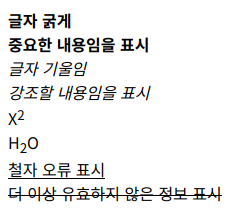
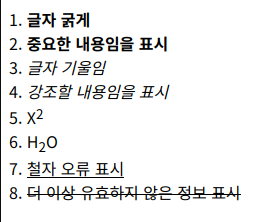
2024-07-27 HTML

Changed region(s): [[0.0, 0.0, 0.8924, 1.0]]

diff --git a/_posts/HTMLnCSS/HtmlTraining/HTMLnCSS_HTML02.HTML b/_posts/HTMLnCSS/HtmlTraining/HTMLnCSS_HTML02.HTML
@@ -7,21 +7,21 @@
 </head>
 <body>
 
-    <b>글자 굵게</b>   <br>
+    1. <b>글자 굵게</b>   <br>
 
-    <strong>중요한 내용임을 표시</strong>   <br> 
+    2. <strong>중요한 내용임을 표시</strong>   <br> 
 
-    <i>글자 기울임</i>   <br>
+    3. <i>글자 기울임</i>   <br>
 
-    <em>강조할 내용임을 표시</em>   <br>
+    4. <em>강조할 내용임을 표시</em>   <br>
 
-    X<sup>2</sup>   <br>
+    5. X<sup>2</sup>   <br>
 
-    H<sub>2</sub>O   <br>
+    6. H<sub>2</sub>O   <br>
 
-    <u>철자 오류 표시</u>   <br>
+    7. <u>철자 오류 표시</u>   <br>
 
-    <s>더 이상 유효하지 않은 정보 표시</s>   <br>
+    8. <s>더 이상 유효하지 않은 정보 표시</s>   <br>
     
 </body>
 </html>

diff --git a/_posts/HTMLnCSS/HtmlTraining/HTMLnCSS_HTML03.HTML b/_posts/HTMLnCSS/HtmlTraining/HTMLnCSS_HTML03.HTML
@@ -1,0 +1,37 @@
+<!DOCTYPE html>
+<html lang="ko">
+<head>
+    <meta charset="UTF-8">
+    <meta name="viewport" content="width=device-width, initial-scale=1.0">
+    <title>Document</title>
+</head>
+<body>
+    
+    1.
+    &lt; 꺾쇠 대체텍스트 &gt;  
+
+    <br>2.
+    <blockquote cite="www.naver.com">
+        긴 인용문 작성 시, blockquote 태그를 사용
+    </blockquote>
+
+    <br>3.
+    <cite>
+        출처 : www.naver.com
+    </cite>
+
+    <br>4.
+    <q cite="www.naver.com">
+        짧은 인용문
+    </q>
+
+    <br>5.
+    <mark>하이라이트 표기</mark>
+
+    <br>6.
+    <abbr title="HyperText Markup Language">
+        HTML
+    </abbr>
+
+</body>
+</html>

diff --git a/_posts/HTMLnCSS/2024-05-03-HTMLnCSS_HTML02.md b/_posts/HTMLnCSS/2024-05-03-HTMLnCSS_HTML02.md
@@ -20,8 +20,8 @@ sidebar:
 
 |  태그  |             설명            |       비고       |
 |:------:|:---------------------------:|:----------------:|
-|    b   |  글자를 굵게 (구버전 HTML)  | 👉 [사용 일람 보기](https://developer.mozilla.org/ko/docs/Web/HTML/Element/b#%EC%82%AC%EC%9A%A9_%EC%9D%BC%EB%9E%8C)  |
-| strong |     중요한 내용임을 명시    |                  |
+|    `<b>`   |  글자를 굵게 (구버전 HTML)  | 👉 [사용 일람 보기](https://developer.mozilla.org/ko/docs/Web/HTML/Element/b#%EC%82%AC%EC%9A%A9_%EC%9D%BC%EB%9E%8C)  |
+| `<strong>` |     중요한 내용임을 명시    |                  |
 
 
 ## i 태그와 em 태그
@@ -30,15 +30,15 @@ sidebar:
 
 |  태그  |             설명            |       비고       |
 |:------:|:---------------------------:|:----------------:|
-|    i   | 글자를 기울임 (구버전 HTML) | 👉 [사용 일람 보기](https://developer.mozilla.org/ko/docs/Web/HTML/Element/i#%EC%82%AC%EC%9A%A9_%EC%9D%BC%EB%9E%8C) |
-|   em   |     강조할 내용임을 명시    |                  |
+|    `<i>`   | 글자를 기울임 (구버전 HTML) | 👉 [사용 일람 보기](https://developer.mozilla.org/ko/docs/Web/HTML/Element/i#%EC%82%AC%EC%9A%A9_%EC%9D%BC%EB%9E%8C) |
+|   `<em>`   |     강조할 내용임을 명시    |                  |
 
 ## sup 태그와 sub 태그
 
-|  태그 |    설명   |        비고        |
-|:-----:|:---------:|:------------------:|
-| <sup> |  위 첨자  |     지수, 서수     |
-| <sub> | 아래 첨자 | 각주, 변수, 화학식 |
+|  태그   |    설명   |        비고        |
+|:-------:|:---------:|:------------------:|
+| `<sup>` |  위 첨자  |     지수, 서수     |
+| `<sub>` | 아래 첨자 | 각주, 변수, 화학식 |
 
 ## u 태그와 s 태그
 
@@ -46,10 +46,10 @@ sidebar:
 
 - s 태그는 더 이상 유효하지 않은 정보를 취소선과 함께 표기
 
-| 태그 |               설명              |            비고           |
-|:----:|:-------------------------------:|:-------------------------:|
-|  <u> |          철자 오류 표시         | 예전에는 밑줄 용도로 사용 |
-|  <s> | 더 이상 유효하지 않은 정보 표시 |                           |
+| 태그   |               설명              |            비고           |
+|:------:|:-------------------------------:|:-------------------------:|
+|  `<u>` |          철자 오류 표시         | 예전에는 밑줄 용도로 사용 |
+|  `<s>` | 더 이상 유효하지 않은 정보 표시 |                           |
 
 ## 실습 예제
 
@@ -63,21 +63,21 @@ sidebar:
 </head>
 <body>
 
-    <b>글자 굵게</b>   <br>
+    1. <b>글자 굵게</b>   <br>
 
-    <strong>중요한 내용임을 표시</strong>   <br> 
+    2. <strong>중요한 내용임을 표시</strong>   <br> 
 
-    <i>글자 기울임</i>   <br>
+    3. <i>글자 기울임</i>   <br>
 
-    <em>강조할 내용임을 표시</em>   <br>
+    4. <em>강조할 내용임을 표시</em>   <br>
 
-    X<sup>2</sup>   <br>
+    5. X<sup>2</sup>   <br>
 
-    H<sub>2</sub>O   <br>
+    6. H<sub>2</sub>O   <br>
 
-    <u>철자 오류 표시</u>   <br>
+    7. <u>철자 오류 표시</u>   <br>
 
-    <s>더 이상 유효하지 않은 정보 표시</s>   <br>
+    8. <s>더 이상 유효하지 않은 정보 표시</s>   <br>
     
 </body>
 </html>

diff --git a/_posts/HTMLnCSS/2024-05-04-HTMLnCSS_HTML03.md b/_posts/HTMLnCSS/2024-05-04-HTMLnCSS_HTML03.md
@@ -1,0 +1,117 @@
+---
+layout: single
+title: "HTML & CSS : 인용된 컨텐츠"
+categories: HTML&CSS
+tag: [HTML]
+permalink : /posts/HTMLnCSS-04/
+toc: true
+author_profile: false
+sidebar:
+  nav: "HTML&CSS"
+---
+
+<hr>
+
+## 속성(attribute)
+
+- 태그의 동작을 설정 및 제어 
+
+- 태그마다 설정 가능한 속성들이 있음
+
+- 속성 예 : `<img src="./logo.png" alt="로고">`
+
+    > src와 alt는 img 태그의 속성
+
+## 대체 문자(Entity name)
+
+- 문자 entity name 목록 보기 : [사이트 링크](https://html.spec.whatwg.org/multipage/named-characters.html)
+
+| 문자 | Entity name |
+|:----:|:-----------:|
+|   <  |   `&lt;`    |
+|   >  |   `&gt;`    |
+
+## 인용문 관련 태그
+
+|     태그       |                          설명                          |           비고          |
+|:--------------:|:------------------------------------------------------:|:-----------------------:|
+| `<blockquote>` |                 비교적 긴 인용문에 사용                | cite 속성으로 출처 표시 |
+|    `<cite>`    |                   저작물의 출처 표기                   |    제목을 반드시 포함   |
+|      `<q>`     |                비교적 짧은 인용문에 사용               | cite 속성으로 출처 표시 |
+|    `<mark>`    | 인용문 중 하이라이트 또는 사용자 행동과 연관된 곳 표시 |                         |
+
+### blockquote 태그
+
+- 비교적 긴 인용문에 사용되며, cite 속성으로 출처를 표시해줌
+
+- `<blockquote cite="www.naver.com"> 인용문 내용 작성 </blockquote>`
+
+### cite 태그
+
+- cite는 속성으로도 사용되지만 태그로도 사용됨
+
+- 저작물의 출처를 표기할 때 사용
+
+### q 태그
+
+- 비교적 짧은 인용문에 사용되며, cite 속성으로 출처를 표시해줌
+
+- `<q cite="www.naver.com"> 인용문 내용 작성 </q>`
+
+### mark 태그
+
+- <mark>하이라이트</mark> 표기 
+
+## abbr 태그
+
+|  태그    |        설명        |              비고             |
+|:--------:|:------------------:|:-----------------------------:|
+| `<abbr>` | 준말/머릿글자 표시 | title 속성으로 원래 형태 표시 |
+
+- `<abbr title="HyperText Markup Language">HTML</abbr>`
+
+- HTML 이라는 글자에 마우스를 가져다대면 "HyperText Markup Language" 라고 표시됨
+
+## 실습
+
+```html
+<!DOCTYPE html>
+<html lang="ko">
+<head>
+    <meta charset="UTF-8">
+    <meta name="viewport" content="width=device-width, initial-scale=1.0">
+    <title>Document</title>
+</head>
+<body>
+    
+    1.
+    &lt; 꺾쇠 대체텍스트 &gt;  
+
+    <br>2.
+    <blockquote cite="www.naver.com">
+        긴 인용문 작성 시, blockquote 태그를 사용
+    </blockquote>
+
+    <br>3.
+    <cite>
+        출처 : www.naver.com
+    </cite>
+
+    <br>4.
+    <q cite="www.naver.com">
+        짧은 인용문
+    </q>
+
+    <br>5.
+    <mark>하이라이트 표기</mark>
+
+    <br>6.
+    <abbr title="HyperText Markup Language">
+        HTML
+    </abbr>
+
+</body>
+</html>
+```
+
+![image](../../assets/images/HTMLnCSS/HTMLnCSS-03-01.png)
